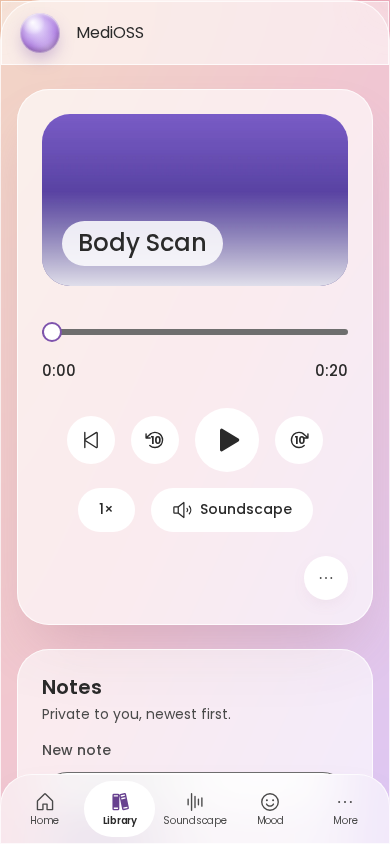
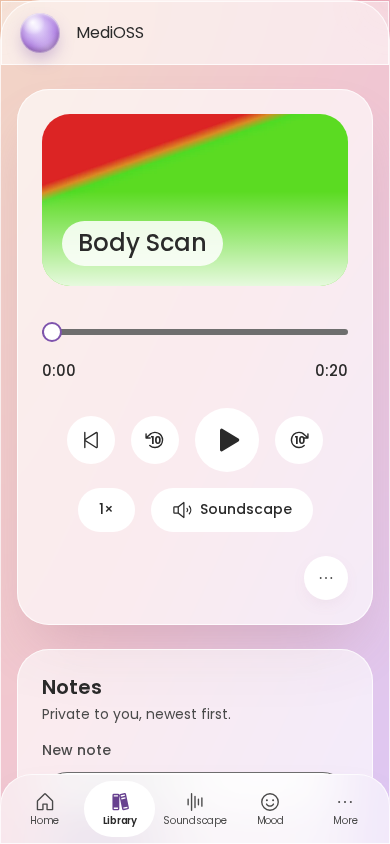
feat(web-ui): full-width labelled practice heatmap; saturated demo covers; regenerate screenshots

Changed region(s): [[0.0923, 0.1232, 0.8923, 0.3389]]

diff --git a/src/apps/web-ui/src/lib/screens/stats/stats-content.svelte b/src/apps/web-ui/src/lib/screens/stats/stats-content.svelte
@@ -25,7 +25,7 @@
   import { formatNumber } from "$lib/i18n/formatting/number-format";
   import { locale, t } from "$lib/i18n/locale.svelte";
   import { ROUTES } from "$lib/navigation/routes";
-  import { buildHeatmap } from "./practice-heatmap";
+  import { buildHeatmap, monthMarks, weeksThatFit } from "./practice-heatmap";
   import { statsMessages as m } from "./stats.messages";
 
   let range = $state<StatisticsRange>("all");
@@ -79,9 +79,33 @@
     const pad = (value: number) => String(value).padStart(2, "0");
     return `${now.getFullYear()}-${pad(now.getMonth() + 1)}-${pad(now.getDate())}`;
   };
+  // Cell 20px + gap 4px per week column; the label column is 2.5rem wide.
+  const CELL_PITCH_PX = 24;
+  const LABEL_COLUMN_PX = 48;
+  let heatmapWidth = $state(0);
   const weeks = $derived(
-    statistics ? buildHeatmap(statistics.calendar, range, localToday()) : [],
+    statistics
+      ? buildHeatmap(
+          statistics.calendar,
+          range,
+          localToday(),
+          weeksThatFit(heatmapWidth - LABEL_COLUMN_PX, CELL_PITCH_PX),
+        )
+      : [],
   );
+  const marks = $derived(monthMarks(weeks));
+  const monthName = (date: string) =>
+    formatCalendarDay(date, locale.current, { month: "short" });
+  // 2024-01-01 is a Monday; Monday, Wednesday, Friday label rows 1, 3, 5.
+  const WEEKDAY_LABEL_ROWS = [0, 2, 4];
+  const weekdayName = (row: number) =>
+    formatCalendarDay(`2024-01-0${row + 1}`, locale.current, {
+      weekday: "short",
+    });
+  // Newest week at the right edge: start scrolled to the end.
+  const scrollToNewest = (node: HTMLElement) => {
+    node.scrollLeft = node.scrollWidth;
+  };
   const levelClasses = [
     "bg-surface-solid/50 ring-1 ring-inset ring-ink-muted/25",
     "bg-accent-fill/25",
@@ -173,10 +197,33 @@
               role="region"
               aria-label={t(m.heatmapLabel)}
               tabindex="0"
+              bind:clientWidth={heatmapWidth}
+              use:scrollToNewest
               class="overflow-x-auto rounded-md p-1.5 focus-visible:outline-2 focus-visible:outline-accent-strong"
             >
               <div class="flex w-max flex-col gap-3">
-                <div class="grid grid-flow-col grid-rows-7 gap-1">
+                <div
+                  class="grid gap-1 text-xs text-ink-body"
+                  style="grid-template-columns: 2.5rem repeat({weeks.length}, 1.25rem); grid-template-rows: 1rem repeat(7, 1.25rem);"
+                >
+                  {#each marks as mark (mark.column)}
+                    <span
+                      aria-hidden="true"
+                      class="row-start-1 whitespace-nowrap"
+                      style="grid-column-start: {mark.column + 2};"
+                    >
+                      {monthName(mark.date)}
+                    </span>
+                  {/each}
+                  {#each WEEKDAY_LABEL_ROWS as row (row)}
+                    <span
+                      aria-hidden="true"
+                      class="col-start-1 self-center"
+                      style="grid-row-start: {row + 2};"
+                    >
+                      {weekdayName(row)}
+                    </span>
+                  {/each}
                   {#each weeks as week, weekIndex (weekIndex)}
                     {#each week as cell, dayIndex (dayIndex)}
                       {#if cell}
@@ -184,18 +231,16 @@
                           role="img"
                           aria-label={cellLabel(cell.date, cell.minutes)}
                           title={cellLabel(cell.date, cell.minutes)}
-                          class="size-4 rounded-[4px] {levelClasses[
-                            cell.level
-                          ]}"
+                          class="rounded-[4px] {levelClasses[cell.level]}"
+                          style="grid-column-start: {weekIndex +
+                            2}; grid-row-start: {dayIndex + 2};"
                         ></div>
-                      {:else}
-                        <div class="size-4" aria-hidden="true"></div>
                       {/if}
                     {/each}
                   {/each}
                 </div>
                 <div
-                  class="flex items-center gap-2 text-xs text-ink-body"
+                  class="flex items-center gap-2 ps-10 text-xs text-ink-body"
                   aria-hidden="true"
                 >
                   <span>{t(m.heatmapLess)}</span>

diff --git a/src/apps/web-ui/src/lib/screens/stats/practice-heatmap.ts b/src/apps/web-ui/src/lib/screens/stats/practice-heatmap.ts
@@ -6,8 +6,8 @@ import type { StatisticsDay } from "../../api/meditation-types";
 
 export const HEATMAP_LEVELS = 4;
 const DAYS_PER_WEEK = 7;
-const MIN_WEEKS = 12;
-const MAX_WEEKS = 53;
+export const MIN_WEEKS = 26;
+export const MAX_WEEKS = 52;
 
 export type HeatmapCell = {
   date: string;
@@ -35,41 +35,42 @@ export function heatmapLevel(minutes: number, maxMinutes: number): number {
   return Math.max(1, Math.ceil((minutes / maxMinutes) * HEATMAP_LEVELS));
 }
 
+/** Weeks that fit `availableWidth` px at `pitch` px per column, clamped to the supported span. */
+export function weeksThatFit(availableWidth: number, pitch: number): number {
+  const fit = Math.floor(availableWidth / pitch);
+  return Math.min(MAX_WEEKS, Math.max(MIN_WEEKS, fit));
+}
+
 /**
- * Weeks covering `[start, end]`. The window is the last 30 days for "last30",
- * today only for "today", otherwise from the first practice day (at least
- * MIN_WEEKS, at most MAX_WEEKS back).
+ * Weeks covering the range, newest last. "last30" is the last 30 days and
+ * "today" a single cell; "all" is `weeks` whole weeks ending with the current one.
  */
 export function buildHeatmap(
   calendar: readonly StatisticsDay[],
   range: "today" | "last30" | "all",
   today: string,
+  weeks: number = MAX_WEEKS,
 ): HeatmapWeek[] {
   const end = parseIso(today);
   const minutesByDate = new Map(calendar.map((d) => [d.date, d.minutes]));
   const maxMinutes = Math.max(0, ...calendar.map((d) => d.minutes));
 
-  let start: Date;
-  if (range === "today") start = end;
-  else if (range === "last30") start = addDays(end, -29);
-  else {
-    const first = calendar.map((d) => d.date).sort()[0];
-    const earliest = addDays(end, -(MAX_WEEKS * DAYS_PER_WEEK - 1));
-    const floor = addDays(end, -(MIN_WEEKS * DAYS_PER_WEEK - 1));
-    const wanted = first ? parseIso(first) : floor;
-    start = new Date(
-      Math.max(earliest.getTime(), Math.min(wanted.getTime(), floor.getTime())),
-    );
-  }
+  const gridEnd = addDays(end, -weekdayIndex(end));
+  const start =
+    range === "today"
+      ? end
+      : range === "last30"
+        ? addDays(end, -29)
+        : addDays(gridEnd, -(weeks - 1) * DAYS_PER_WEEK);
 
   const gridStart = addDays(start, -weekdayIndex(start));
-  const weeks: HeatmapWeek[] = [];
+  const grid: HeatmapWeek[] = [];
   for (
     let cursor = gridStart;
     cursor <= end;
     cursor = addDays(cursor, DAYS_PER_WEEK)
   ) {
-    weeks.push(
+    grid.push(
       Array.from({ length: DAYS_PER_WEEK }, (_, offset) => {
         const day = addDays(cursor, offset);
         if (day < start || day > end) return null;
@@ -79,5 +80,21 @@ export function buildHeatmap(
       }),
     );
   }
-  return weeks;
+  return grid;
+}
+
+export type MonthMark = { column: number; date: string };
+
+/** The first week column of each calendar month, for labels above the grid. */
+export function monthMarks(grid: readonly HeatmapWeek[]): MonthMark[] {
+  const marks: MonthMark[] = [];
+  let previousMonth = "";
+  grid.forEach((week, column) => {
+    const first = week.find((cell) => cell !== null);
+    if (!first) return;
+    const month = first.date.slice(0, 7);
+    if (month !== previousMonth) marks.push({ column, date: first.date });
+    previousMonth = month;
+  });
+  return marks;
 }

diff --git a/src/apps/web-ui/src/lib/screens/stats/practice-heatmap.test.ts b/src/apps/web-ui/src/lib/screens/stats/practice-heatmap.test.ts
@@ -1,5 +1,11 @@
 import { describe, expect, test } from "bun:test";
-import { buildHeatmap, heatmapLevel, HEATMAP_LEVELS } from "./practice-heatmap";
+import {
+  buildHeatmap,
+  heatmapLevel,
+  HEATMAP_LEVELS,
+  monthMarks,
+  weeksThatFit,
+} from "./practice-heatmap";
 
 describe("heatmapLevel", () => {
   test("zero minutes is level 0", () => {
@@ -37,14 +43,25 @@ describe("buildHeatmap", () => {
     ).toEqual([{ date: today, minutes: 5, level: HEATMAP_LEVELS }]);
   });
 
-  test("all time covers at least 12 weeks and reaches the first practice day", () => {
-    expect(cells(buildHeatmap([], "all", today))).toHaveLength(84);
-    const old = buildHeatmap(
-      [{ date: "2025-12-01", minutes: 10 }],
-      "all",
-      today,
-    );
-    expect(cells(old)[0]?.date).toBe("2025-12-01");
+  test("all time is the requested number of whole weeks ending with the current one", () => {
+    const weeks = buildHeatmap([], "all", today, 30);
+    expect(weeks).toHaveLength(30);
+    expect(weeks.at(-1)?.[5]?.date).toBe(today);
+    expect(weeks.at(-1)?.[6]).toBeNull();
+  });
+
+  test("weeksThatFit clamps to 26..52", () => {
+    expect(weeksThatFit(100, 20)).toBe(26);
+    expect(weeksThatFit(800, 20)).toBe(40);
+    expect(weeksThatFit(5000, 20)).toBe(52);
+  });
+
+  test("monthMarks labels each new month once", () => {
+    const marks = monthMarks(buildHeatmap([], "last30", today));
+    expect(marks.map((m) => m.date.slice(0, 7))).toEqual([
+      "2026-09",
+      "2026-10",
+    ]);
   });
 
   test("minutes land on their day and scale by the busiest day", () => {

diff --git a/src/apps/web-ui/demo/demo-content.ts b/src/apps/web-ui/demo/demo-content.ts
@@ -156,11 +156,28 @@ function hslToHex(hue: number, saturation: number, lightness: number): string {
   return `0x${channel(0)}${channel(8)}${channel(4)}`;
 }
 
-/** A multi-stop gradient whose hues are unique per program index. */
+const MUDDY_HUE_FROM = 38;
+const MUDDY_HUE_TO = 98;
+const COVER_SATURATION = 0.72;
+const COVER_LIGHTNESS = 0.5;
+const COVER_HUE_STEP_DEGREES = 34;
+
+/** Olive and mustard mixes read as mud: move those hues to clean orange or lime. */
+function avoidMuddyHue(hue: number): number {
+  if (hue < MUDDY_HUE_FROM || hue > MUDDY_HUE_TO) return hue;
+  const middle = (MUDDY_HUE_FROM + MUDDY_HUE_TO) / 2;
+  return hue < middle ? MUDDY_HUE_FROM - 8 : MUDDY_HUE_TO + 8;
+}
+
+/** A saturated multi-stop gradient whose hues are unique per program index. */
 export function gradientSource(index: number): string {
   const baseHue = (index * GOLDEN_ANGLE_DEGREES) % 360;
   const colors = Array.from({ length: COVER_COLOR_STOPS }, (_, stop) =>
-    hslToHex((baseHue + stop * 38) % 360, 0.7, 0.42 + stop * 0.07),
+    hslToHex(
+      avoidMuddyHue((baseHue + stop * COVER_HUE_STEP_DEGREES) % 360),
+      COVER_SATURATION,
+      COVER_LIGHTNESS,
+    ),
   );
   const options = colors.map((color, stop) => `c${stop}=${color}`).join(":");
   return `gradients=s=800x450:${options}:nb_colors=${COVER_COLOR_STOPS}:seed=${index + 1}:speed=0:type=linear`;
